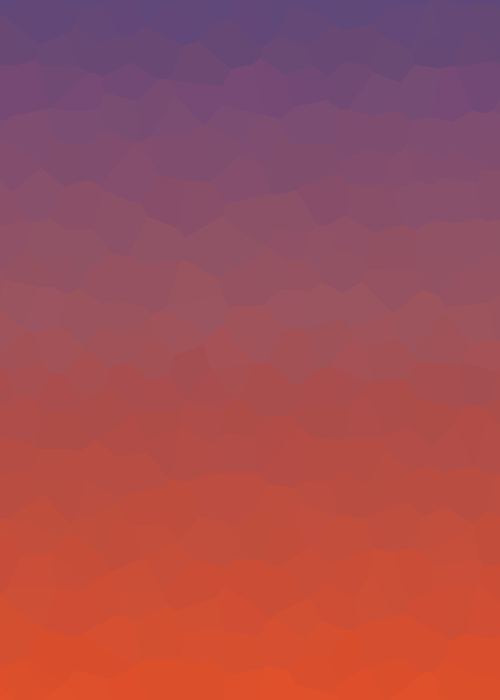
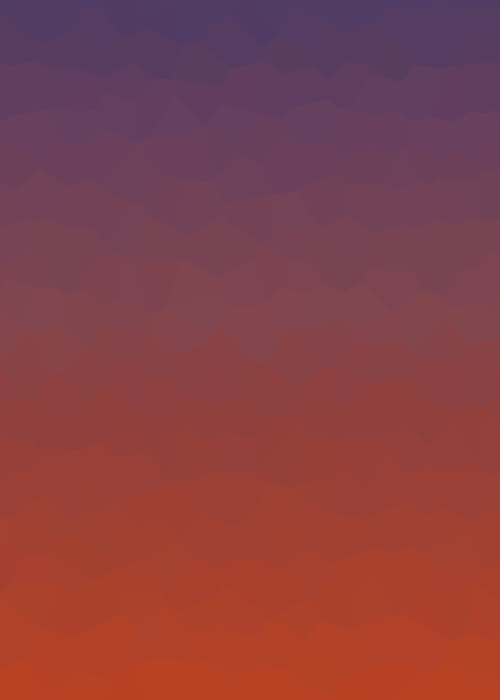
modified background a bit, also moved season tree outside!

diff --git a/main.js b/main.js
@@ -143,8 +143,9 @@ function preUpdate() {
         spriteSize: {x: 100, y: 100},
         imageSize: {x: 400, y: 100}
     })
-        .setSize(150,150)
-        .setPosition(5,5)
+        .setSize(150, 150)
+        .setPosition(100, 245)
+        .setOrigin(.5, .5)
         .setFrame(calendar.getSeason())
 
     const seasonSound = new Sound('./assets/sounds/bellam.wav', {volume: .5});
@@ -153,6 +154,13 @@ function preUpdate() {
         seasonSprite.setFrame(season);
         seasonSound.play();
     })
+
+
+    const wall = new GameObject()
+        // .setStyle('backgroundImage', 'radial-gradient(circle at center, rgba(0,0,0,.5) 0, black 100%), url("./assets/background.png")')
+        .setStyle('backgroundImage', 'url("./assets/background.png")')
+        .setSize(500,700)
+
 
     uiObjects = initializeUI();
 

diff --git a/style.css b/style.css
@@ -14,10 +14,16 @@ main {
     align-items: center;
 
     font-family: "Garamond", serif;
+    background-color: rgb(17, 16, 16);
 }
 
 #title-container > h1 {
+    color: linen;
     font-size: 50px;
+}
+
+#settings-container {
+    color: linen;
 }
 
 #settings-container h2 {
@@ -51,7 +57,7 @@ main {
     font-family: "Garamond", serif;
     font-size: 16px;
 
-    background-image: url('./assets/background.png');
+    background-image: url('./assets/sky.png');
 }
 
 /* game and ui container */

diff --git a/src/ui/recipeBookPages.js b/src/ui/recipeBookPages.js
@@ -214,6 +214,13 @@ function initializeCreditsPage(recipeBook) {
     const title = createTitle('Credits');
 
     page.appendChild(title);
+
+    const centerContainer = document.createElement('div');
+    // centerContainer.style.textAlign = 'center';
+    centerContainer.id = 'credits';
+    centerContainer.classList.toggle('dotted-border', true);
+    // centerContainer.style.padding = '10px';
+    page.appendChild(centerContainer);
 }
 
 // move upgrade buttons into ui objects
